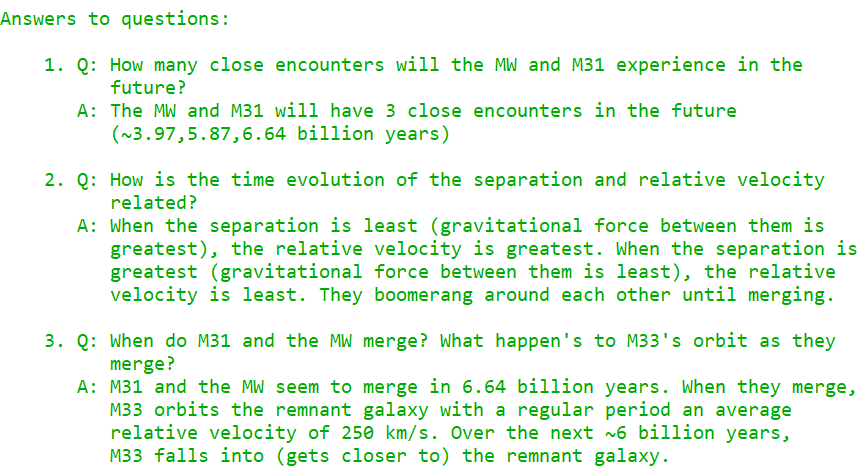
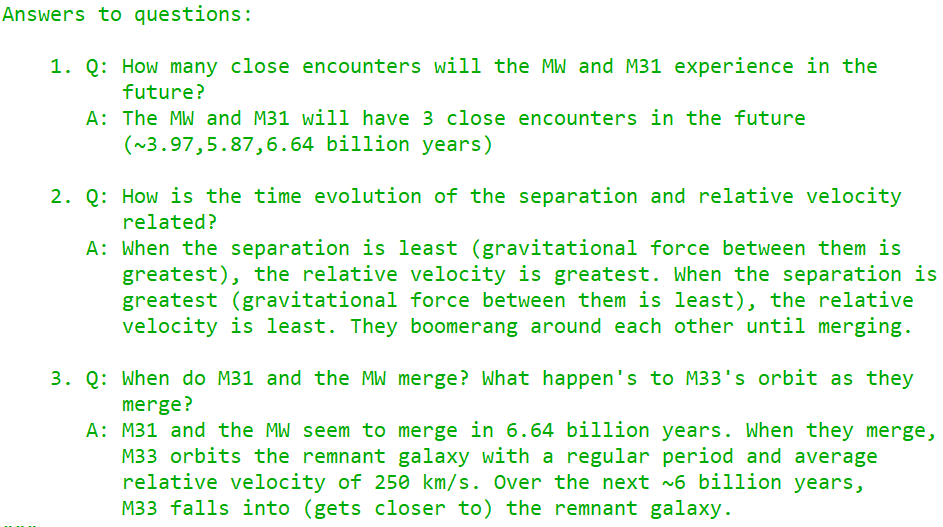
Fixed type in HW 6 responses

diff --git a/Homeworks/Homework6/OrbitCOM.py b/Homeworks/Homework6/OrbitCOM.py
@@ -212,7 +212,7 @@ Answers to questions:
     3. Q: When do M31 and the MW merge? What happen's to M33's orbit as they
           merge?
        A: M31 and the MW seem to merge in 6.64 billion years. When they merge, 
-          M33 orbits the remnant galaxy with a regular period an average 
+          M33 orbits the remnant galaxy with a regular period and average 
           relative velocity of 250 km/s. Over the next ~6 billion years,
           M33 falls into (gets closer to) the remnant galaxy.
 """
